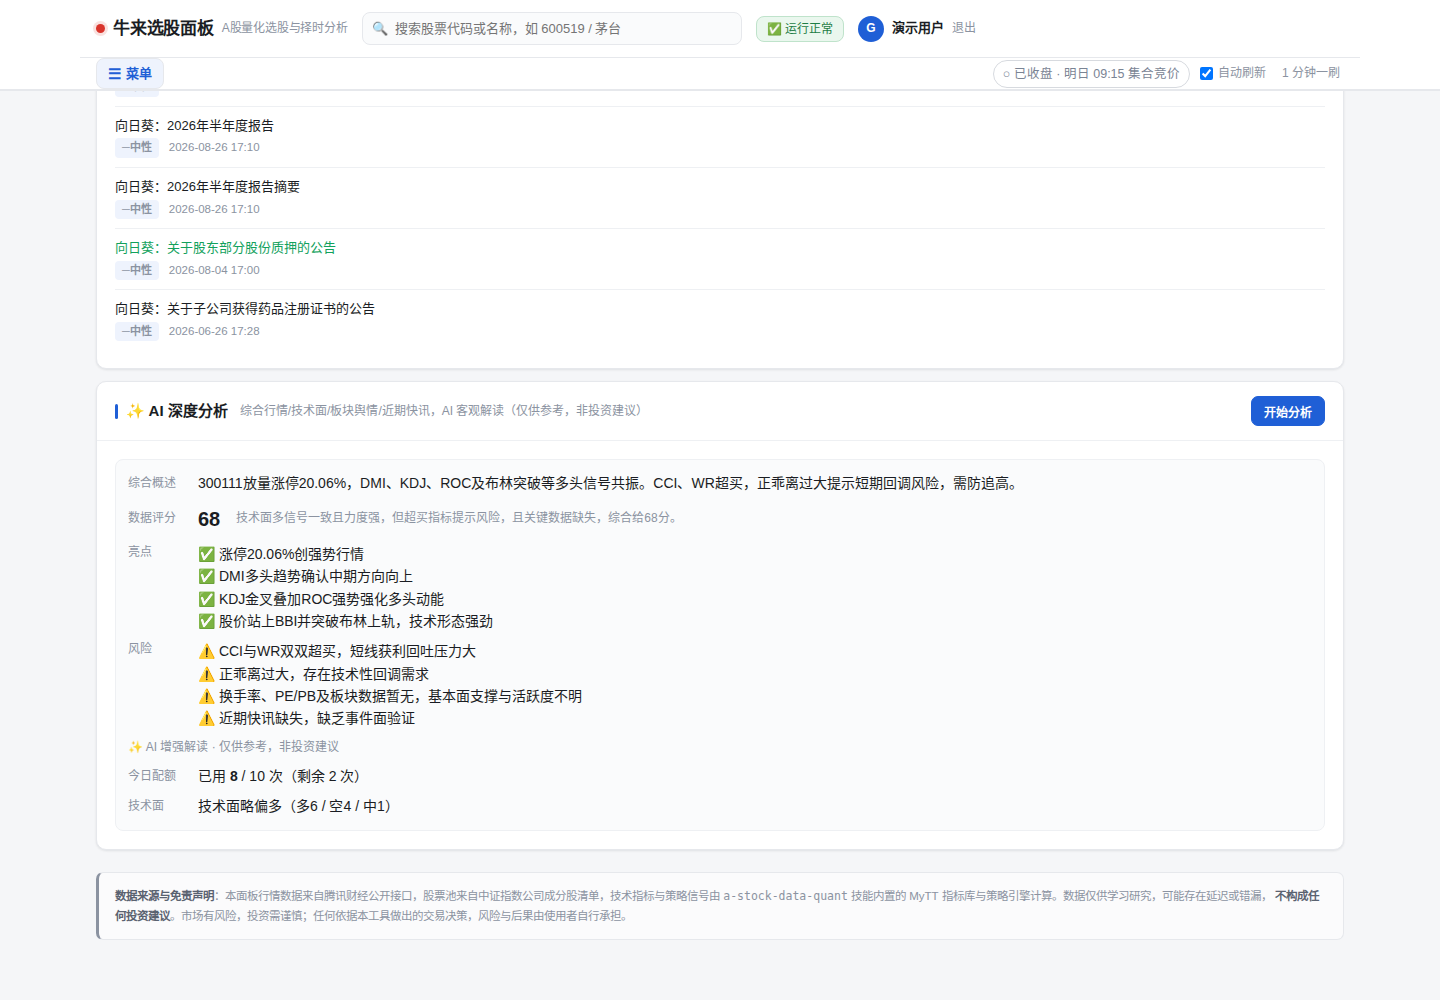
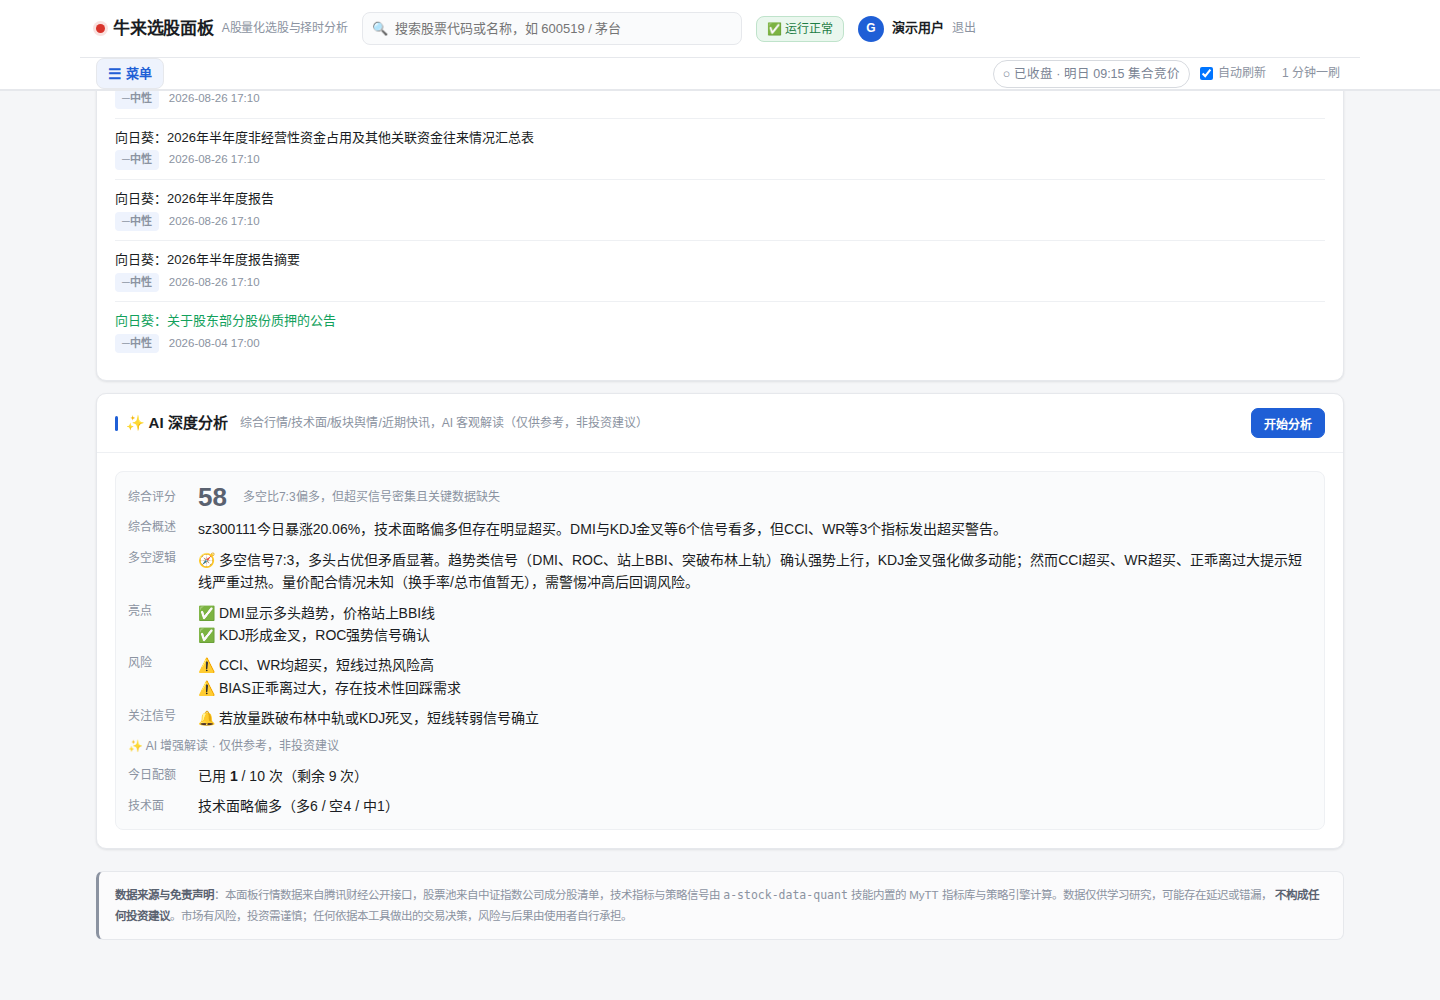
#222 AI 深度分析解读加细：多空逻辑 + 关注信号 + 评分视觉升级
动机：原输出只有「概述+亮点+风险+评分」四个平铺字段，用户觉得不够细、
帮助感不强。根因是 prompt 维度单薄（LLM 想细也没处放）+ 前端渲染无层次。

后端（server/stock_analyzer.py）
- prompt 新增 logic（≤200字多空逻辑：把多空计数与关键信号组织成一段话，
  讲清信号间一致/矛盾、哪方占上风、量价与超买细节意味着什么）
- prompt 新增 watch（1~3 条条件式关注信号，如「若跌破20日线且缩量，短线转弱」）
- summary 放宽至 ≤140 字（2~3 句）；亮点/风险放宽至 ≤60 字并要求引用
  数据里的具体数值或信号名（「CCI=199.9 已超买」而非笼统表述）
- _validate 同步：logic/watch 逐字段校验，selfcheck 14 条全绿

前端（web/index.html renderStockAi）
- 评分改 26px 大数字 + 本地化配色（≥60 红 / <40 绿 / 中间中性）
- 新增「多空逻辑 🧭」「关注信号 🔔」两个分区，信息层次从 4 段变 6 段

验证
- e2e 19/19（含真实 LLM：茅台实测评分 58，多空逻辑引用 DMI/BBI/ROC/KDJ
  金叉 vs CCI/WR/BIAS 超买，watch 给条件式信号）
- 修复 e2e 断言边界：配额用满时渲染「已用完」而非「剩余 N 次」，断言兼容两态
- 截图重截：shot-stock-ai / ai_quota_result / ai_quota_need_login / admin_ai_usage

diff --git a/web/index.html b/web/index.html
@@ -3288,16 +3288,26 @@ function renderStockAi(r, out){
   var h = '';
   if(r.llm){
     var L = r.llm;
-    h += '<div class="row"><span class="lbl">综合概述</span><span>' + esc(L.summary || '—') + '</span></div>';
-    h += '<div class="row"><span class="lbl">数据评分</span><b style="font-size:20px">' +
-         (L.score != null ? L.score : '—') + '</b>' +
+    // 评分大数字 + 本地化配色（≥60 红 / <40 绿 / 中间中性，与涨跌色一致）
+    var sc = L.score, scCol = sc == null ? 'var(--tx3)'
+      : (sc >= 60 ? 'var(--up)' : (sc < 40 ? 'var(--down)' : 'var(--tx2)'));
+    h += '<div class="row"><span class="lbl">综合评分</span><b style="font-size:26px;line-height:1;color:' +
+         scCol + '">' + (sc != null ? sc : '—') + '</b>' +
          '<span style="color:var(--tx3);font-size:12px;margin-left:8px">' + esc(L.score_note || '') + '</span></div>';
+    h += '<div class="row" style="align-items:flex-start"><span class="lbl">综合概述</span>' +
+         '<span style="text-align:left;flex:1">' + esc(L.summary || '—') + '</span></div>';
+    if(L.logic)
+      h += '<div class="row" style="align-items:flex-start"><span class="lbl">多空逻辑</span>' +
+           '<span style="text-align:left;flex:1">🧭 ' + esc(L.logic) + '</span></div>';
     if(L.strengths && L.strengths.length)
       h += '<div class="row" style="align-items:flex-start"><span class="lbl">亮点</span><span style="text-align:left">' +
            L.strengths.map(function(x){ return '✅ ' + esc(x); }).join('<br>') + '</span></div>';
     if(L.risks && L.risks.length)
       h += '<div class="row" style="align-items:flex-start"><span class="lbl">风险</span><span style="text-align:left">' +
            L.risks.map(function(x){ return '⚠ ' + esc(x); }).join('<br>') + '</span></div>';
+    if(L.watch && L.watch.length)
+      h += '<div class="row" style="align-items:flex-start"><span class="lbl">关注信号</span><span style="text-align:left">' +
+           L.watch.map(function(x){ return '🔔 ' + esc(x); }).join('<br>') + '</span></div>';
     h += '<div class="meta" style="margin-top:8px;font-size:12px;color:var(--tx3)">✨ AI 增强解读 · 仅供参考，非投资建议</div>';
   } else {
     h += '<div class="empty">AI 模型未启用或暂不可用，以下为纯数据摘要。</div>';

diff --git a/server/stock_analyzer.py b/server/stock_analyzer.py
@@ -23,12 +23,17 @@ from typing import Any, Dict, List, Optional
 
 _SYS = """你是A股个股分析助手。给你一只股票的真实数据（行情/技术面信号/所属板块/近期快讯），
 你产出结构化解读。只输出一个 ```json 代码块，仅含：
-{"summary":"≤80字综合概述","strengths":["亮点1","亮点2"],"risks":["风险点1","风险点2"],
-"score":0~100,"score_note":"≤30字打分依据"}
+{"summary":"≤140字综合概述","logic":"≤200字多空逻辑","strengths":["亮点1","亮点2"],
+"risks":["风险点1","风险点2"],"watch":["关注信号1"],"score":0~100,"score_note":"≤30字打分依据"}
 
 规则（违反会被代码拒绝、白费 Token）：
-- summary/score_note 分别是 ≤80/≤30 字中文；
-- strengths/risks 各 1~5 条，每条 ≤40 字，必须基于给定数据，禁止编造数据里没有的信息；
+- summary 用 2~3 句话说清「现在这是什么状态、为什么」；≤140 字；
+- logic 专门解释技术面：把多空计数与关键信号组织成一段话，讲清「信号之间一致还是矛盾、
+  哪一方占上风、量价/超买类细节意味着什么」；信号数据不足就明说，≤200 字；
+- strengths/risks 各 1~5 条，每条 ≤60 字，必须基于给定数据、尽量引用具体数值或信号名
+  （如「CCI=199.9 已超买」而非笼统的「技术面好」），禁止编造数据里没有的信息；
+- watch 列 1~3 条「后续盯什么」：条件式提示（如「若跌破 20 日线且缩量，短线转弱」），
+  同样只能基于给定数据，≤50 字每条；
 - 数据里标注"暂无"的维度不要强行解读，可略过或在 risks 里提"数据不全"；
 - score 反映"多空信号一致性 + 数据完备度"（不是预测涨跌）：信号一致且数据全→偏高，
   信号矛盾或数据缺失→偏低，中性给 50 左右；
@@ -179,26 +184,33 @@ def _parse_json(text: str) -> Optional[dict]:
 
 
 def _validate(obj: Dict[str, Any]) -> Dict[str, Any]:
-    """schema 校验：summary/strengths/risks/score/score_note 形态，返回采用子集。"""
+    """schema 校验：summary/logic/strengths/risks/watch/score/score_note 形态，返回采用子集。"""
     out: Dict[str, Any] = {}
     s = obj.get("summary")
-    if isinstance(s, str) and s.strip() and len(s) <= 120:
+    if isinstance(s, str) and s.strip() and len(s) <= 160:
         out["summary"] = s.strip()
 
-    def _strlist(key, lo, hi):
+    lg = obj.get("logic")
+    if isinstance(lg, str) and lg.strip() and len(lg) <= 240:
+        out["logic"] = lg.strip()
+
+    def _strlist(key, lo, hi, maxlen):
         v = obj.get(key)
         if isinstance(v, list):
-            keep = [x.strip() for x in v if isinstance(x, str) and x.strip() and len(x) <= 60]
+            keep = [x.strip() for x in v if isinstance(x, str) and x.strip() and len(x) <= maxlen]
             if lo <= len(keep) <= hi:
                 return keep
         return None
 
-    st = _strlist("strengths", 1, 5)
+    st = _strlist("strengths", 1, 5, 60)
     if st:
         out["strengths"] = st
-    rk = _strlist("risks", 1, 5)
+    rk = _strlist("risks", 1, 5, 60)
     if rk:
         out["risks"] = rk
+    wt = _strlist("watch", 1, 3, 60)
+    if wt:
+        out["watch"] = wt
     try:
         sc = round(float(obj.get("score")))
         if 0 <= sc <= 100:
@@ -272,13 +284,19 @@ def selfcheck() -> int:
     miss = {"name": "", "code": "sh000001", "quote": {}, "tech": {}, "sectors": [], "news": [], "missing": []}
     ok("_ctx_prompt：缺维度标注暂无(≥3)", _ctx_prompt(miss).count("暂无") >= 3)
 
-    good = {"summary": "茅台技术面偏多，估值偏高。", "strengths": ["均线多头", "资金流入"],
-            "risks": ["估值不低", "短线超买"], "score": 68, "score_note": "信号一致但估值高"}
+    good = {"summary": "茅台技术面信号多空交织，短线偏中性。", "logic": "多空各4个信号："
+             "DMI/TRIX/站上BBI偏多，但KDJ与CCI双双超买，短线有回踩风险，整体中性。",
+             "strengths": ["均线多头", "资金流入"],
+             "risks": ["估值不低", "短线超买"], "watch": ["若跌破20日线且缩量，短线转弱"],
+             "score": 68, "score_note": "信号一致但估值高"}
     v = _validate(good)
     ok("_validate：合法解读提取全部字段",
-       v.get("score") == 68 and len(v.get("strengths", [])) == 2 and v.get("summary"))
+       v.get("score") == 68 and len(v.get("strengths", [])) == 2 and v.get("summary")
+       and v.get("logic") and v.get("watch") == ["若跌破20日线且缩量，短线转弱"])
     ok("_validate：summary 超长丢弃", "summary" not in _validate({"summary": "x" * 200, "score": 50}))
+    ok("_validate：logic 超长丢弃", "logic" not in _validate({"summary": "ok", "logic": "x" * 300}))
     ok("_validate：strengths 条数超限丢弃", "strengths" not in _validate({"summary": "ok", "strengths": ["a"] * 6}))
+    ok("_validate：watch 条数超限丢弃", "watch" not in _validate({"summary": "ok", "watch": ["a"] * 4}))
     ok("_validate：score 超范围丢弃", "score" not in _validate({"score": 150}))
     ok("_validate：空 dict → 无采用", _validate({}) == {})
     ok("_parse_json：坏 JSON → None", _parse_json("```json\n{bad}\n```") is None)

diff --git a/tests/e2e_ai_quota.py b/tests/e2e_ai_quota.py
@@ -150,7 +150,8 @@ def main():
         pg.evaluate("document.querySelector('#stockAiBtn').click();")
         pg.wait_for_selector("#stockAiOut .intentbox", timeout=60000)
         quota_txt = pg.locator("#stockAiOut").inner_text()
-        check("结果区显示今日配额行", "今日配额" in quota_txt and "剩余" in quota_txt,
+        check("结果区显示今日配额行", "今日配额" in quota_txt
+              and ("剩余" in quota_txt or "已用完" in quota_txt),
               [ln for ln in quota_txt.split("\n") if "配额" in ln][:1])
         # 把「今日配额」行滚进视口再截图（卡片在技术面结论下方，首屏拍不到）
         pg.evaluate(

diff --git a/README.md b/README.md
@@ -152,7 +152,7 @@
 | 🔔 **监控中心** | 价格 / 涨跌幅 / 自选异动规则与告警 |
 | ⌨ **命令面板** | `Cmd/Ctrl + K` 全局直达任意模块与股票，自带沪深交易时段时钟 |
 | 🤖 **AI 直连（MCP）** | 内置 MCP 服务端（纯标准库、零新增依赖），Claude Desktop / Cursor 等 AI 工具可直接查行情、跑 29 策略选股、算 61 项指标、看连板梯队与快讯，还能把结果加进自选；[配置教程 →](docs/MCP-使用说明.md) |
-| 🧠 **AI 增强解析与分析** | 需在后台「AI 模型」面板配置 LLM Key（`.env` 亦可）：**① 策略解析 AI 增强** —— 策略回测页的自然语言描述勾选「✨ AI 增强解析」，口语 / 模糊表达（如「赚一成五就收工，跌 7% 认错离场」）也能拆出策略类型、止盈止损、风险偏好，解析结果带 AI 角标；可执行条件恒为规则版，LLM 只增强解释性字段；**② 个股 AI 深度分析**（需登录，每账号每日默认 10 次，后台「📈 AI 用量」可调）—— 个股页一键聚合行情 + 60 项指标信号 + 所属板块 + 相关快讯四维数据，产出多空解读 / 机会 / 风险；LLM 未配置或调用失败时**自动降级**（策略解析回落规则版、个股分析转纯数据摘要），不影响使用 |
+| 🧠 **AI 增强解析与分析** | 需在后台「AI 模型」面板配置 LLM Key（`.env` 亦可）：**① 策略解析 AI 增强** —— 策略回测页的自然语言描述勾选「✨ AI 增强解析」，口语 / 模糊表达（如「赚一成五就收工，跌 7% 认错离场」）也能拆出策略类型、止盈止损、风险偏好，解析结果带 AI 角标；可执行条件恒为规则版，LLM 只增强解释性字段；**② 个股 AI 深度分析**（需登录，每账号每日默认 10 次，后台「📈 AI 用量」可调）—— 个股页一键聚合行情 + 60 项指标信号 + 所属板块 + 相关快讯四维数据，产出综合评分（大数字 + 打分依据）/ 综合概述 / 多空逻辑（引用具体指标数值）/ 亮点 / 风险 / 关注信号（条件式）六维解读；LLM 未配置或调用失败时**自动降级**（策略解析回落规则版、个股分析转纯数据摘要），不影响使用 |
 | 🚀 **一键部署** | Python 本机 / WorkBuddy 云平台 / Docker 自托管，任选 |
 
 ---

diff --git a/docs/部署指南.md b/docs/部署指南.md
@@ -688,9 +688,15 @@ tp=0.15`（"一成五"=15%）。自检 21 条（含假 chat 注入）。
 分析」按钮）。四维数据只读复用：`datasource.snapshot`（行情）+
 `indicator.all_indicators`（signals/verdict/counts）+ `stock_sector_map`
 （ticker 反查板块/名称）+ `sector_verify._load_news`（快讯）。LLM 产出
-{summary, stance, score, opportunities[], risks[], related_news[]} 全过
-护栏（枚举白名单 + 数组长度 + score 范围）；LLM 不可用降级 `data_only=true`
+{summary, logic, strengths[], risks[], watch[], score, score_note} 全过
+护栏（逐字段长度上限 + 数组条数 + score 0~100；亮点/风险要求引用数据里的
+具体数值或信号名，关注信号为条件式提示）；LLM 不可用降级 `data_only=true`
 纯数据摘要。**登录守卫与每日配额**见下一节（#216 起该端点不再匿名开放）。
+
+> #222 起解读加细：新增 `logic`（多空逻辑：把多空计数与关键信号组织成一段话，
+> 讲清信号之间一致还是矛盾、哪方占上风）与 `watch`（后续关注信号，条件式）；
+> `summary` 放宽至 140 字（2~3 句），前端评分改大数字 + 本地化配色
+> （≥60 红 / <40 绿）。
 
 > 坑位记录：`snapshot` 单只查询不带 name/估值，曾导致板块反查连锁失效——
 > 现用 `stock_sector_map.sectors_for_stocks` ticker 反查板块，再从成分股
@@ -709,9 +715,10 @@ tp=0.15`（"一成五"=15%）。自检 21 条（含假 chat 注入）。
 
 ![个股 AI 深度分析](shots/shot-stock-ai.png)
 
-个股页「✨ AI 深度分析」：综合概述 + 数据评分 + 亮点 / 风险 +
-技术面（多 6 / 空 4 / 中 1）+ 所属板块 + 近期快讯，LLM 不可用时
-自动转纯数据摘要。
+个股页「✨ AI 深度分析」：综合评分（大数字 + 打分依据）+ 综合概述 +
+多空逻辑（引用具体指标数值）+ 亮点 / 风险 / 关注信号（条件式）+
+今日配额 + 技术面（多 6 / 空 4 / 中 1）+ 所属板块 + 近期快讯，
+LLM 不可用时自动转纯数据摘要。
 
 ---
 
